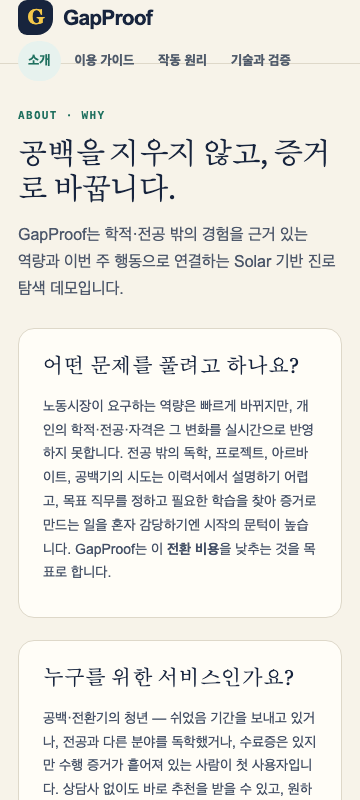
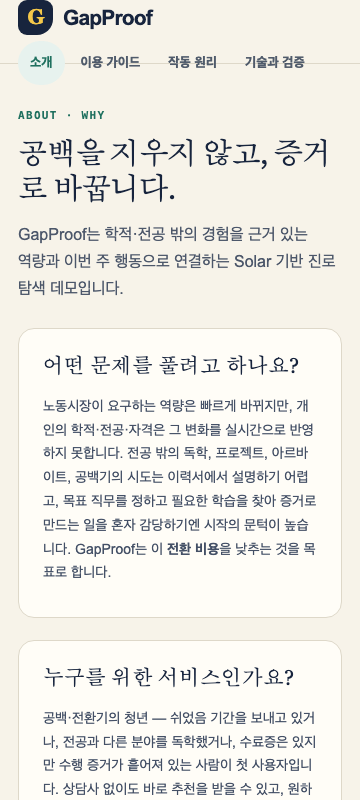
fix: 44px info-nav touch targets and stable technology copy (#9)
- info-nav·gate-links·footer-nav 최소 44px(중첩 없음 E2E 실측), focus-visible 유지
- /technology 가변 수치 제거·게이트 비인증 명시(개수·확인일은 worklog/evidence만)
- 문서-코드 재대조: 파이프라인·마스킹 시점·확인 원칙·무저장·10회/60초 전부 일치

diff --git a/app/globals.css b/app/globals.css
@@ -103,12 +103,12 @@ button:focus-visible, textarea:focus-visible, input:focus-visible, a:focus-visib
 .gate-hint { display: block; margin-top: 8px; color: var(--muted); font-size: 11px; }
 .gate-actions { display: flex; justify-content: flex-end; gap: 8px; margin-top: 20px; }
 .gate-links { display: flex; flex-wrap: wrap; gap: 4px 12px; margin-top: 18px; padding-top: 14px; border-top: 1px solid var(--line); }
-.gate-links a { color: var(--green); font-size: 12px; font-weight: 750; text-decoration: underline; text-underline-offset: 3px; padding: 6px 0; }
+.gate-links a { display: inline-flex; align-items: center; min-height: 44px; color: var(--green); font-size: 12px; font-weight: 750; text-decoration: underline; text-underline-offset: 3px; padding: 4px 2px; }
 
 /* 정보 페이지 (#9) */
 .info-bar { height: auto; min-height: 64px; flex-wrap: wrap; gap: 6px 14px; padding: 12px 18px; padding-left: max(18px, env(safe-area-inset-left)); padding-right: max(18px, env(safe-area-inset-right)); }
-.info-nav { display: flex; flex-wrap: wrap; gap: 4px 4px; }
-.info-nav a { padding: 8px 10px; min-height: 40px; display: inline-flex; align-items: center; border-radius: 999px; color: #505b6b; font-size: 13px; font-weight: 750; text-decoration: none; }
+.info-nav { display: flex; flex-wrap: wrap; gap: 4px; }
+.info-nav a { padding: 10px 12px; min-height: 44px; display: inline-flex; align-items: center; border-radius: 999px; color: #505b6b; font-size: 13px; font-weight: 750; text-decoration: none; }
 .info-nav a:hover { color: var(--ink); }
 .info-nav a[aria-current="page"] { background: var(--green-soft); color: var(--green); }
 .info-shell { max-width: 880px; padding-top: 40px; }
@@ -136,7 +136,7 @@ button:focus-visible, textarea:focus-visible, input:focus-visible, a:focus-visib
 .info-cta small { color: var(--muted); }
 .info-repo { margin-top: 12px; color: var(--muted); font-size: 13px; }
 .footer-nav { display: flex; flex-wrap: wrap; gap: 2px 12px; }
-.footer-nav a { color: #6f6a5f; text-decoration: underline; text-underline-offset: 3px; padding: 6px 0; }
+.footer-nav a { display: inline-flex; align-items: center; min-height: 44px; color: #6f6a5f; text-decoration: underline; text-underline-offset: 3px; padding: 4px 2px; }
 .section-head { display: flex; justify-content: space-between; align-items: flex-end; gap: 24px; margin-bottom: 32px; }
 .section-head h1 { margin: 8px 0 0; font-size: clamp(34px, 3.5vw, 52px); }
 .time-pill, .complete-badge { flex: 0 0 auto; padding: 9px 13px; border-radius: 999px; background: var(--green-soft); color: var(--green); font-size: 12px; font-weight: 800; }

diff --git a/app/technology/page.tsx b/app/technology/page.tsx
@@ -15,7 +15,7 @@ const STACK = [
 ];
 
 const SECURITY = [
-  { name: "접근 게이트", detail: "접근 코드를 서버가 검증하고 서명된 HttpOnly 쿠키 세션을 발급해요. 환경변수가 없으면 데모가 열리지 않는 fail-closed 방식이에요." },
+  { name: "접근 게이트", detail: "접근 코드를 서버가 검증하고 서명된 HttpOnly 쿠키 세션을 발급해요. 환경변수가 없으면 데모가 열리지 않는 fail-closed 방식이에요. 공유용 데모 보호 장치일 뿐, 개인 계정 인증은 아니에요." },
   { name: "API 키 보호", detail: "Solar API 키는 서버 환경에만 있고 브라우저로 전달되지 않아요." },
   { name: "요청 한도", detail: "분석·코드 입력 모두 60초에 10회로 제한해 과다 요청과 무차별 대입을 막아요. 한도 확인이 불가능하면 요청을 거절해요." },
   { name: "개인정보 가리기", detail: "이메일·전화번호·주민등록번호로 보이는 표현은 Solar로 보내기 전에 가리고, 가린 사실을 화면에 알려요." },
@@ -62,10 +62,11 @@ export default function TechnologyPage() {
 
       <section className="info-section">
         <h2>검증 방법</h2>
+        <p>자동 테스트, 실제 Workers 개발환경, 5개 화면 크기에서 검증했습니다.</p>
         <ul>
-          <li>자동 테스트 14종: 입력 경계값(19·20·3,000·3,001자), 게이트 인증·위조 쿠키·fail-closed, 요청 한도, 개인정보 가리기, 모델 허용 목록, 서버 렌더링.</li>
-          <li>실제 Worker 런타임(workerd)에서 게이트 세션·한도·보안 헤더를 실측했어요.</li>
-          <li>360·390·768·1024·1440px 다섯 뷰포트에서 가로 넘침 0, 콘솔 오류 0을 자동으로 확인해요.</li>
+          <li>자동 테스트로 입력 경계값, 게이트 인증·위조 쿠키·fail-closed, 요청 한도, 개인정보 가리기, 모델 허용 목록, 서버 렌더링을 검증해요.</li>
+          <li>실제 Worker 개발환경(workerd)에서 게이트 세션·요청 한도·보안 헤더를 실측했어요.</li>
+          <li>5개 화면 크기(360~1440px)에서 가로 넘침 0, 콘솔 오류 0을 자동으로 확인해요.</li>
           <li>테스트는 유료 Solar API를 호출하지 않도록 격리되어 있어요.</li>
         </ul>
       </section>

diff --git a/docs/worklog/issue-9-information-architecture.md b/docs/worklog/issue-9-information-architecture.md
@@ -25,6 +25,12 @@
 - 데모 회귀: 5뷰포트 전체 여정 스윕 overflow 0·console error 0
 - lint·diff-check 통과 · tsc 레거시 2건만 · 비밀값 스캔 0건 · 실 유료 Solar 호출 0건
 
+## 2026-07-25 보완 (PR #22 조건부 승인 반영)
+
+- 내비 터치: info-nav 링크 min-height 44px(패딩 전체 클릭·중첩 없음 — E2E로 높이 44·중첩 false 실측), gate-links·footer-nav도 44px 정렬. focus-visible은 전역 a:focus-visible 아웃라인 적용, aria-current 유지, 360px 4항목 줄바꿈·overflow 0, 데스크톱 회귀 없음.
+- /technology 가변 수치 제거: "자동 테스트 14종" → "자동 테스트, 실제 Workers 개발환경, 5개 화면 크기에서 검증했습니다." (정확한 개수·확인일은 본 worklog와 evidence에만 유지 — 현재 14/14, 2026-07-25). 게이트 카드에 "개인 계정 인증은 아니에요" 명시로 과장 방지.
+- 문서-코드 재대조 결과: 파이프라인 순서(길이 검증→마스킹→Solar→인용 검증) 일치 · 마스킹은 Solar 전송 전 일치 · 확인 전 역량 미사용 일치 · 무저장/Supabase Phase 2 일치 · 10회/60초 일치(wrangler simple.limit 10·period 60). 불일치 0건 — 기능 변경 없음.
+
 ## 남은 제한사항 / 후속
 
 - OG·Twitter 메타·sitemap·robots에 정보 라우트 반영은 #10에서(본 이슈는 title/description만)
